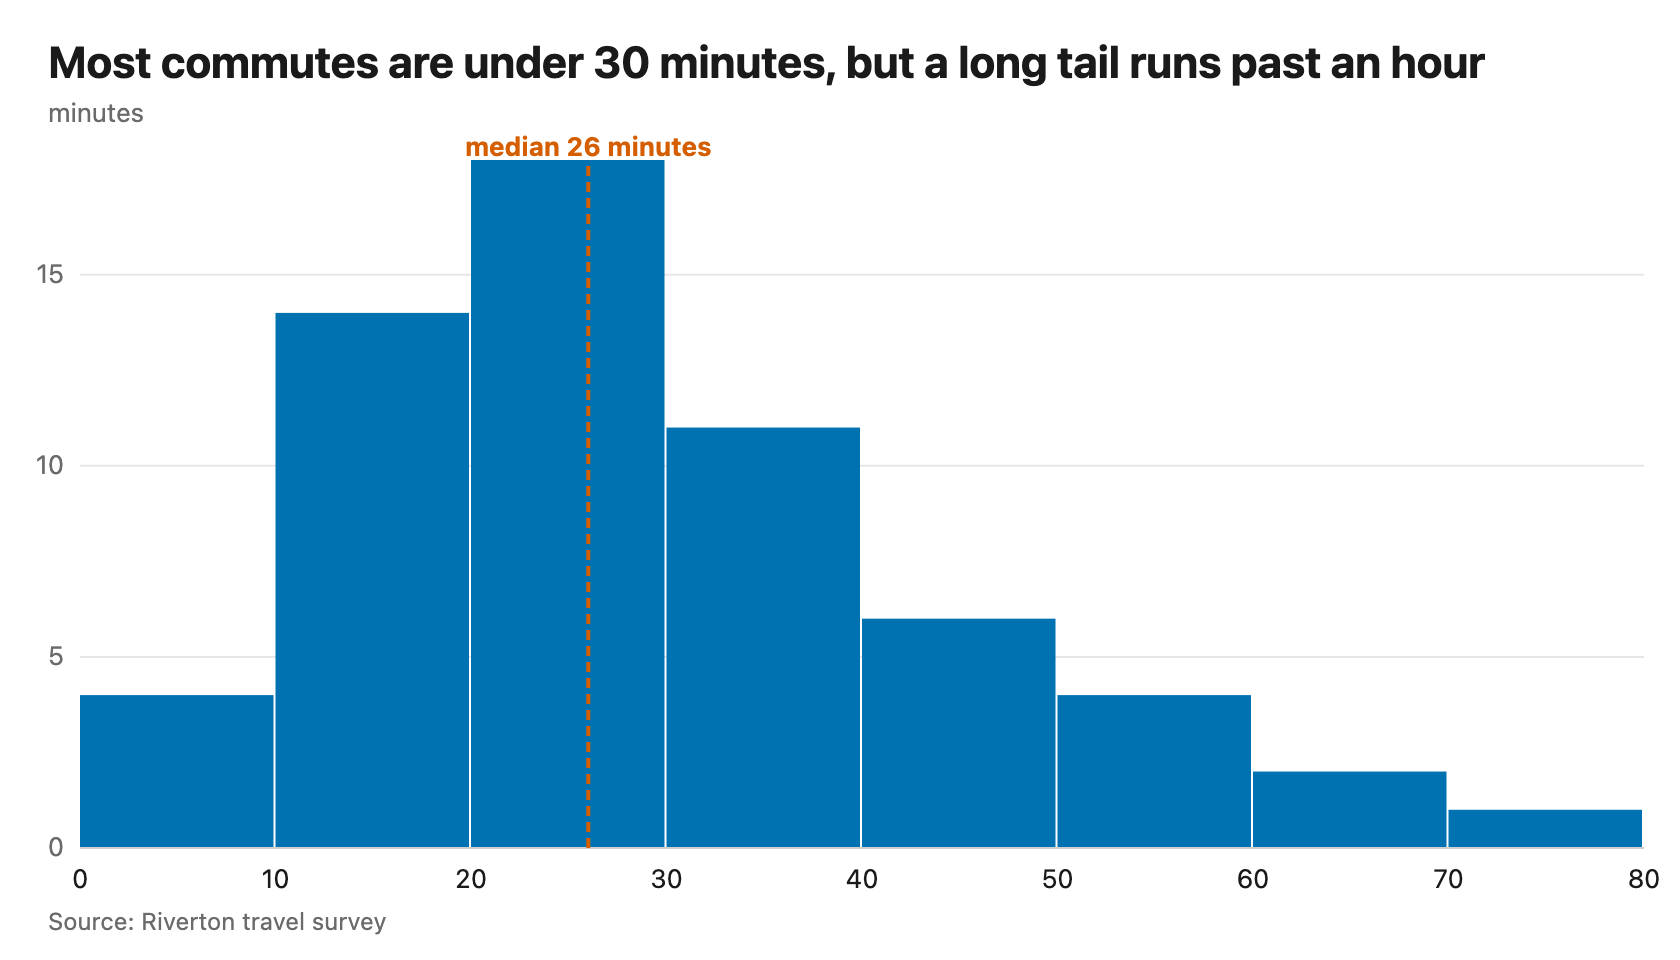
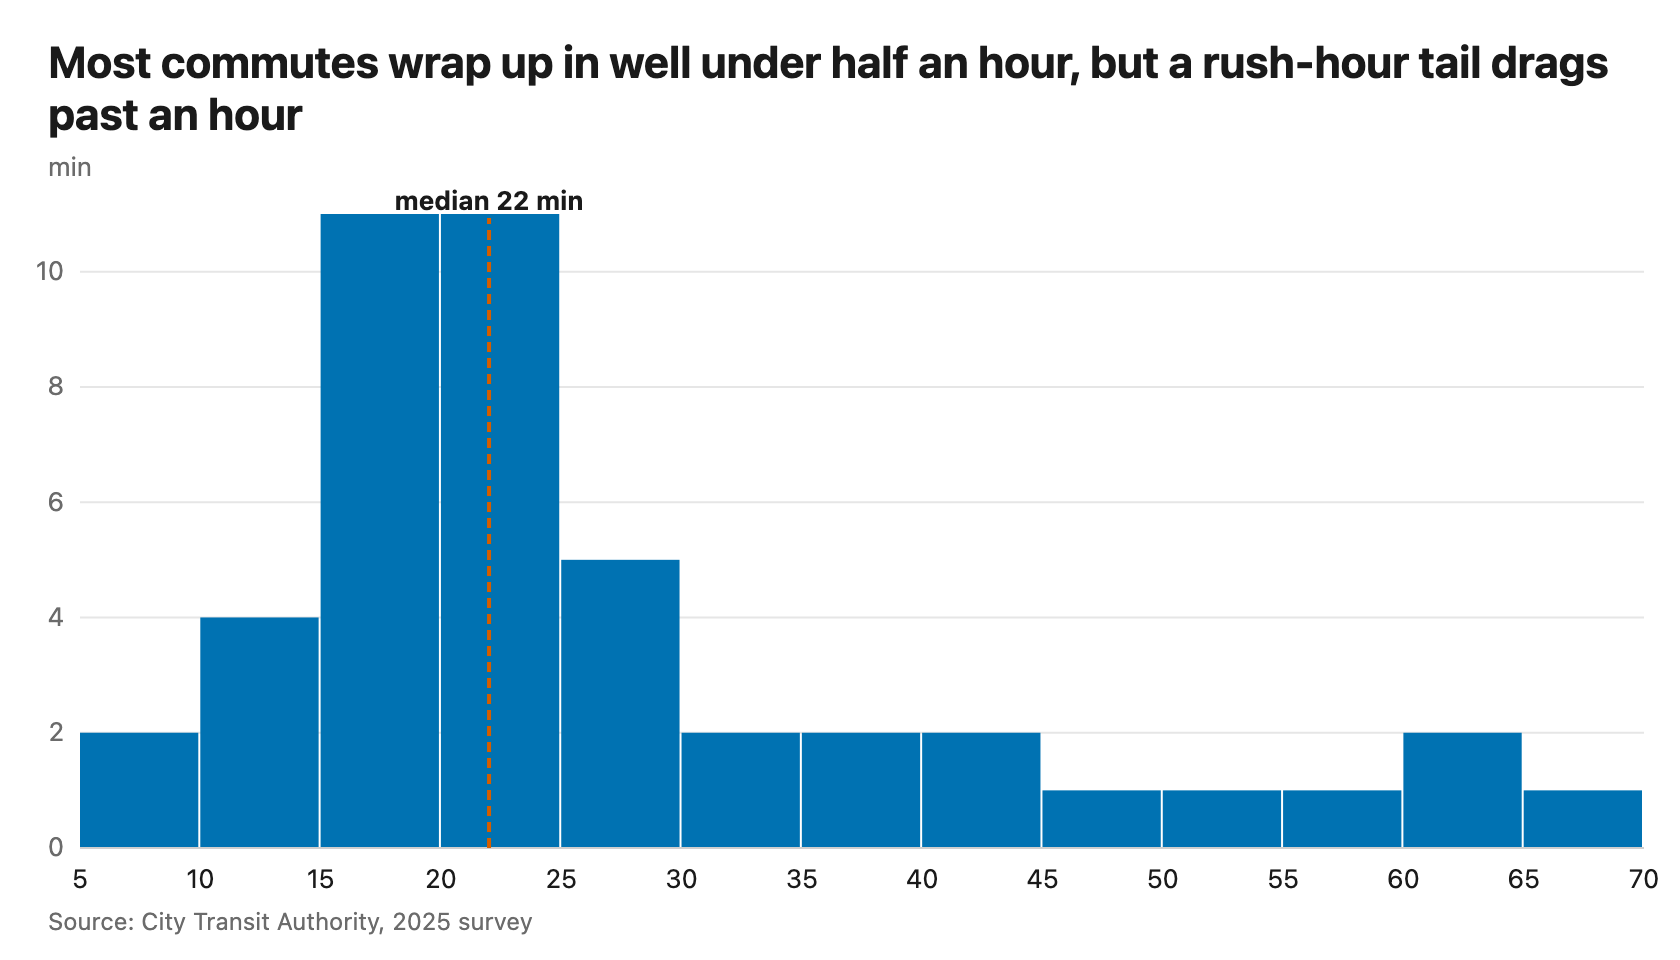
feat(chart-native): productionize histogram end-to-end (distribution mapper + flip)
Add the histogram spec-to-config mapper (last numeric column -> valueField,
rows passed through raw, no binWidth/baseColor forwarded), flip histogram off
deferred in native-types.ts, and add its distribution family entry in
suggest-chart's native-family-types.ts. The produce-time conformance guard and
KB ref already existed for histogram, so this closes the full mapper+guard+KB
contract enforced by completeness.test.ts.

Also update spec-to-config-backcompat.test.ts's pinned MAPPERS key snapshot
(broken by the new histogram key) and refresh the histogram output-proof
static.png render-verify artifact.

diff --git a/skills/chart-native/tests/spec-to-config-histogram.test.ts b/skills/chart-native/tests/spec-to-config-histogram.test.ts
@@ -1,0 +1,33 @@
+import { describe, it, expect } from "bun:test";
+import { specToNativeConfig, type NativeSpec } from "../src/spec-to-config";
+
+const base = {
+  title: "Most trips finish in under 20 minutes",
+  source: { name: "TfL 2025", url: "https://tfl.gov.uk/x" },
+  unit: "trip duration (minutes)",
+};
+
+describe("specToNativeConfig — histogram (distribution)", () => {
+  it("maps the single numeric column to valueField and passes rows through raw", () => {
+    const spec: NativeSpec = {
+      ...base,
+      nativeType: "histogram",
+      data: "minutes\n8\n12\n15\n19\n22\n31",
+    };
+    const { type, config } = specToNativeConfig(spec);
+    expect(type).toBe("histogram");
+    expect(config.valueField).toBe("minutes");
+    expect((config.rows as unknown[]).length).toBe(6);
+    expect(config.binWidth).toBeUndefined();
+    expect(config.baseColor).toBeUndefined();
+  });
+  it("prefers valueUnit for the inline unit when present", () => {
+    const spec: NativeSpec = {
+      ...base,
+      nativeType: "histogram",
+      valueUnit: "min",
+      data: "minutes\n8\n12\n15",
+    };
+    expect(specToNativeConfig(spec).config.unit).toBe("min");
+  });
+});

diff --git a/skills/chart-native/src/spec-to-config.ts b/skills/chart-native/src/spec-to-config.ts
@@ -150,6 +150,22 @@ export const MAPPERS: Record<
       },
     };
   },
+  histogram(parsed, spec) {
+    const { columns, numericColumns, rows } = parsed;
+    const valueField =
+      numericColumns[numericColumns.length - 1] ?? columns[columns.length - 1];
+    return {
+      type: "histogram",
+      config: {
+        title: spec.title,
+        source: src(spec.source),
+        // unit does double duty (subtitle + inline "median N unit"); prefer the short callout unit
+        unit: spec.valueUnit ?? spec.unit,
+        valueField,
+        rows,
+      },
+    };
+  },
   pie(parsed, spec) {
     const { columns, rows, numericColumns } = parsed;
     const catCol = columns[0];

diff --git a/skills/chart-native/tests/spec-to-config-backcompat.test.ts b/skills/chart-native/tests/spec-to-config-backcompat.test.ts
@@ -12,10 +12,11 @@ const base = {
 };
 
 describe("MAPPERS table", () => {
-  it("exposes exactly the four legacy mappers plus grouped", () => {
+  it("exposes exactly the four legacy mappers plus grouped and histogram", () => {
     expect(Object.keys(MAPPERS).sort()).toEqual([
       "bar",
       "grouped",
+      "histogram",
       "line",
       "pie",
       "scatter",

diff --git a/skills/chart-native/src/native-types.ts b/skills/chart-native/src/native-types.ts
@@ -55,12 +55,7 @@ export const NATIVE_TYPES: readonly NativeTypeEntry[] = [
     shape: "wide",
     deferred: A_PENDING("wide"),
   },
-  {
-    id: "histogram",
-    family: "A",
-    shape: "distribution",
-    deferred: A_PENDING("distribution"),
-  },
+  { id: "histogram", family: "A", shape: "distribution" },
   {
     id: "diverging",
     family: "A",

diff --git a/skills/suggest-chart/eval/native-family-types.ts b/skills/suggest-chart/eval/native-family-types.ts
@@ -7,4 +7,5 @@ export const NATIVE_FAMILY_TYPES: Record<string, string[]> = {
   correlation: ["scatter"],
   "part-to-whole": ["pie"],
   magnitude: ["bar", "grouped"],
+  distribution: ["histogram"],
 };

diff --git a/skills/chart-native/output-proof/histogram/NOTES-native.md b/skills/chart-native/output-proof/histogram/NOTES-native.md
@@ -1,0 +1,52 @@
+# Histogram — native-flow render-verify (Task 2, Native Batch 1)
+
+Spec: `spec-native.json` — 45 raw commute-duration observations (minutes), min 5 /
+max 65 / median 22, single numeric column `minutes`. Produced via:
+
+```
+bun skills/chart-native/scripts/produce-from-spec.mjs \
+  /Users/rmdms/Sites/Professional/atelier/skills/chart-native/output-proof/histogram/spec-native.json \
+  /Users/rmdms/Sites/Professional/atelier/skills/chart-native/output-proof/histogram static
+```
+
+## Conformance
+
+```
+[produce histogram] conformance: OK (0 violations).
+```
+
+Passes before any build step — `checkHistogramConformance` (count axis starts at 0,
+bin count 13 ∈ [3,50]) plus the inherited global checks (title-is-insight, Okabe-Ito
+data colour, source name+url, WCAG contrast) all clean, with the resolved colours
+correctly ignoring `config.baseColor` (not forwarded by the mapper, per
+`resolveConformanceColors("histogram", …)`'s fixed-colour contract).
+
+## Visual assessment (`static.png`, read by eye)
+
+- **Distribution shape**: sensible and right-skewed — a tall cluster of touching
+  bars in the 15–25 min bins (11 each), tapering through 25–45, then a thin,
+  bumpy long tail out to 70 (small counts, incl. a 2-count bump at 60–65 from two
+  nearby outliers). Reads as "most commutes are quick, a rush-hour minority runs
+  long" — matches the title's claim.
+- **Bars touch, no gaps** — correctly rendered as a continuum (histogram rule 2,
+  not a bar chart with gaps).
+- **Median line + label**: vermillion dashed line at x=22 with the label
+  "median 22 min" directly above it. The label text renders in **black ink**
+  (`COLORS.ink`), not vermillion — confirms the produce-time-fixed a11y bug
+  (vermillion-as-text, 3.87:1 contrast) does not regress on this type. Label is
+  fully inside the frame, not clipped, not overlapping the title/subtitle.
+- **Title**: "Most commutes wrap up in well under half an hour, but a rush-hour
+  tail drags past an hour" wraps cleanly to 2 lines, sentence case, fully inside
+  the canvas — not clipped top or side.
+- **Axis labelling**: x ticks at the bin edges (5, 10, 15 … 70) let a reader place
+  any value; the "min" subtitle (from `valueUnit`, per the mapper's
+  `unit: spec.valueUnit ?? spec.unit` preference) labels the variable's unit once,
+  consistent with how the other native chart types caption their unit. Y ticks
+  (0–10) label the count axis, baseline at 0.
+- **Source**: "City Transit Authority, 2025 survey" rendered bottom-left, matching
+  the spec's `source.name`.
+
+No visual defects found. `interactive.png`/`.html` were also produced by the same
+run (tooltip text sampled: "2 in 5–10 min") — not required by this task's render-verify
+step, not deeply inspected, but confirms the interactive build path doesn't error
+on this config either.
